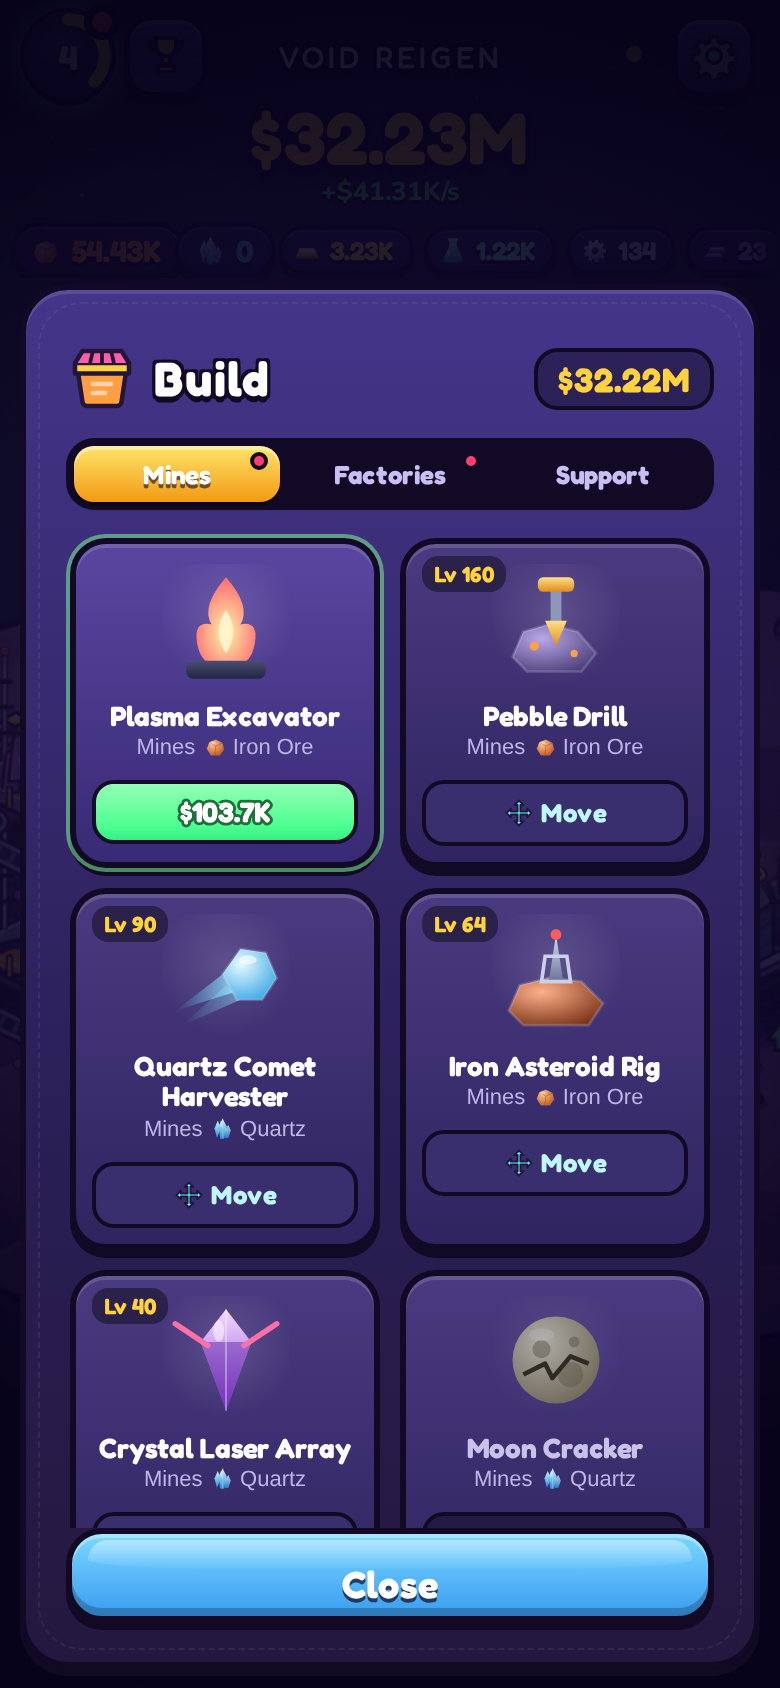
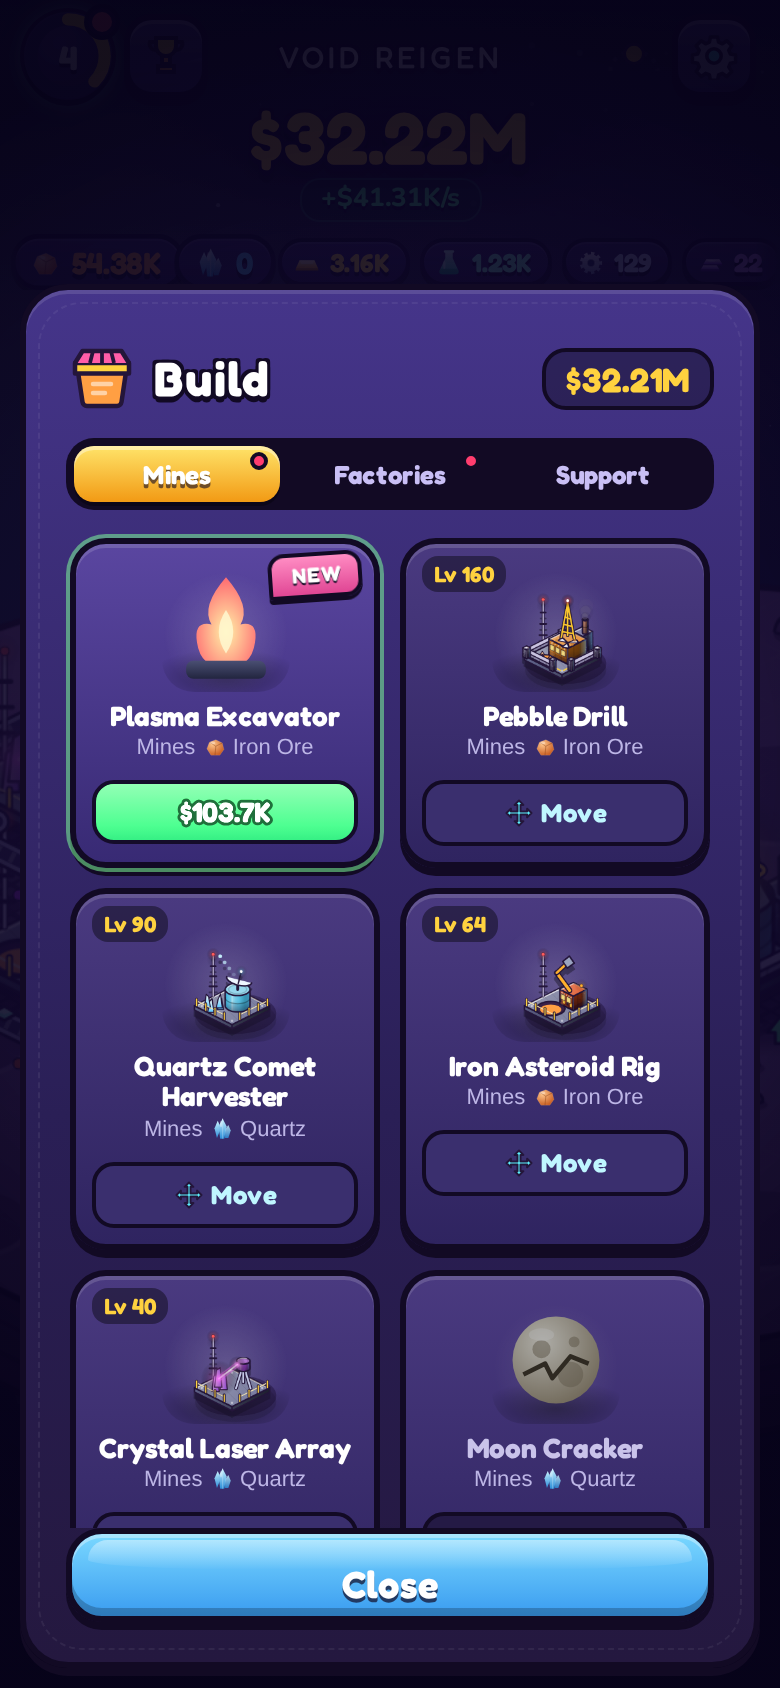
Void Reigen update 2026-10-17_1249

diff --git a/src/main.ts b/src/main.ts
@@ -125,7 +125,7 @@ function openShop(cat?: ShopCat) {
     const list = shopSlots().filter(sl => catOf(sl) === shopCat).sort((a, b) => { const o = { ready: 0, built: 1, auto: 2, locked: 3 }; return o[shopState(a)] - o[shopState(b)] || a.idx - b.idx; });
     grid.innerHTML = list.map(sl => { const stt = shopState(sl), c = buyable(sl) && stt === 'ready' ? newCost(sl) : 0, ok = s.cash >= c;
       const foot = stt === 'built' ? `<span class="sc built">${MOVE_IC} Move</span>` : stt === 'ready' ? `<span class="sc price ${ok ? 'ok' : 'no'}">$${fmt(c)}</span>` : `<span class="sc lock"><svg viewBox="0 0 24 24"><rect x="5" y="10" width="14" height="11" rx="3" fill="#8b84b0" stroke="#24163a" stroke-width="2"/><path d="M8 10V7a4 4 0 0 1 8 0v3" fill="none" stroke="#24163a" stroke-width="2.5"/></svg>${lockWhy(sl)}</span>`;
-      return `<button class="scard ${stt} ${stt === 'ready' && ok ? 'afford' : ''} ${sl.key === shopCoach ? 'coach' : ''}" data-k="${sl.key}"><span class="sart2">${slotArt(sl)}</span><b>${slotName(sl)}</b><small>${shopDesc(sl)}</small>${stt === 'built' && (sl.kind === 'mine' || sl.kind === 'mach') ? `<em class="lv">Lv ${level(sl)}</em>` : ''}${foot}</button>`; }).join('');
+      return `<button class="scard ${stt} ${stt === 'ready' && ok ? 'afford' : ''} ${sl.key === shopCoach ? 'coach' : ''}" data-k="${sl.key}"><span class="sart2">${(stt === 'built' && bv?.portrait(sl.key) && `<img src="${bv!.portrait(sl.key)}" alt="">`) || slotArt(sl)}</span>${stt === 'ready' ? '<i class="newrib">NEW</i>' : ''}<b>${slotName(sl)}</b><small>${shopDesc(sl)}</small>${stt === 'built' && (sl.kind === 'mine' || sl.kind === 'mach') ? `<em class="lv">Lv ${level(sl)}</em>` : ''}${foot}</button>`; }).join('');
     grid.querySelectorAll<HTMLElement>('.scard').forEach(b => b.addEventListener('click', () => { const sl = slotByKey(b.dataset.k!)!, stt = shopState(sl);
       if (stt === 'built') { m.remove(); beginPlace(sl.key, 'move'); return; }
       if (stt !== 'ready') { deny(b); toast(lockWhy(sl) || 'Not available yet'); return; }

diff --git a/src/style.css b/src/style.css
@@ -480,3 +480,7 @@ header::before{content:'';position:absolute;left:50%;top:calc(var(--st,0px) + 18
 #rate:not(:empty){display:inline-block;padding:1px 10px;border-radius:10px;background:#0a2a2a99;border:1.5px solid #7affd133;line-height:1.35;min-height:0}
 #res .rc{box-shadow:0 2px 0 #0008,inset 0 1px 0 #ffffff1c}
 .buy:disabled{filter:none!important;background:linear-gradient(#5d5184,#43386a)!important;color:#c9c0ee!important;box-shadow:0 4px 0 #1a1030,inset 0 2px 0 #ffffff1c!important}
+.scard .sart2 img{width:70px;height:64px;object-fit:contain;filter:drop-shadow(0 3px 0 #0005)}
+.scard .sart2{background:radial-gradient(circle at 50% 55%,#ffffff2a,#0000 66%),radial-gradient(ellipse 60% 22% at 50% 88%,#0006,#0000)}
+.newrib{position:absolute;top:6px;right:6px;background:linear-gradient(#ff8cc3,#e04694);color:#fff;font:700 10.5px/1 Fredoka;font-style:normal;letter-spacing:.06em;padding:4px 8px 4px 10px;border:2px solid #120a24;border-radius:8px 8px 8px 2px;text-shadow:0 1px 0 #120a24;box-shadow:0 2px 0 #120a24;animation:newbob 1.6s ease-in-out infinite}
+@keyframes newbob{50%{transform:translateY(-2px) rotate(-4deg)}}
